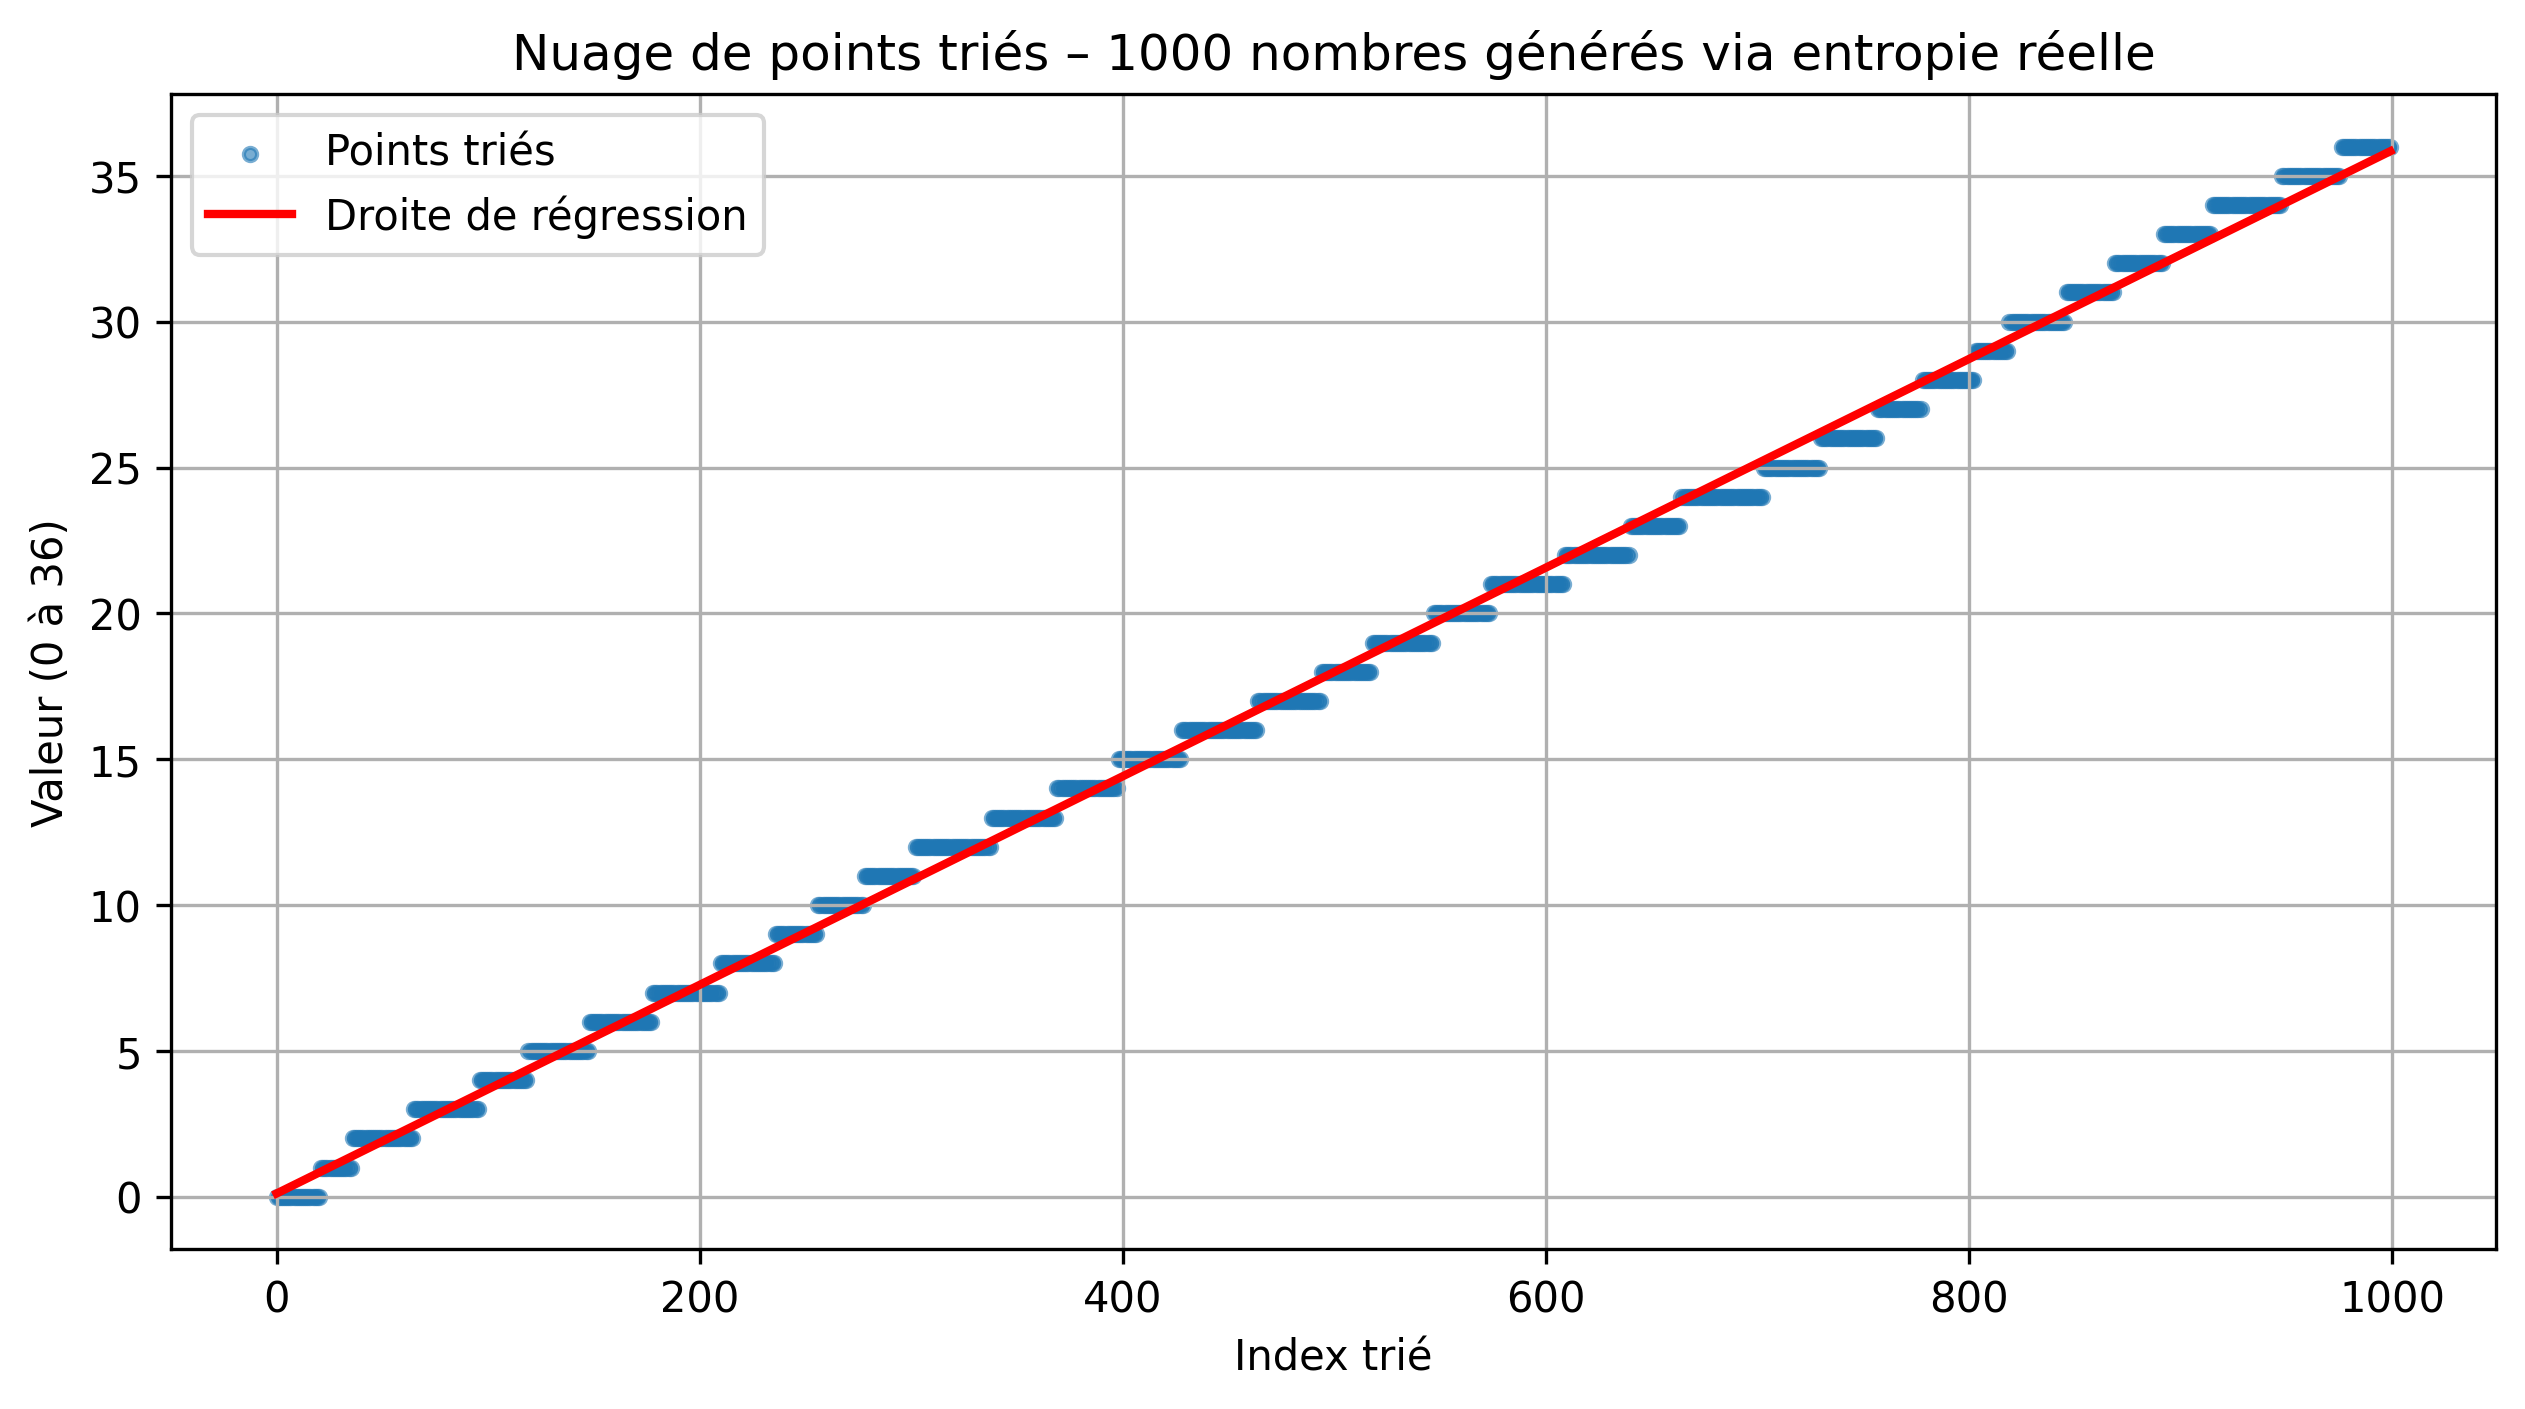
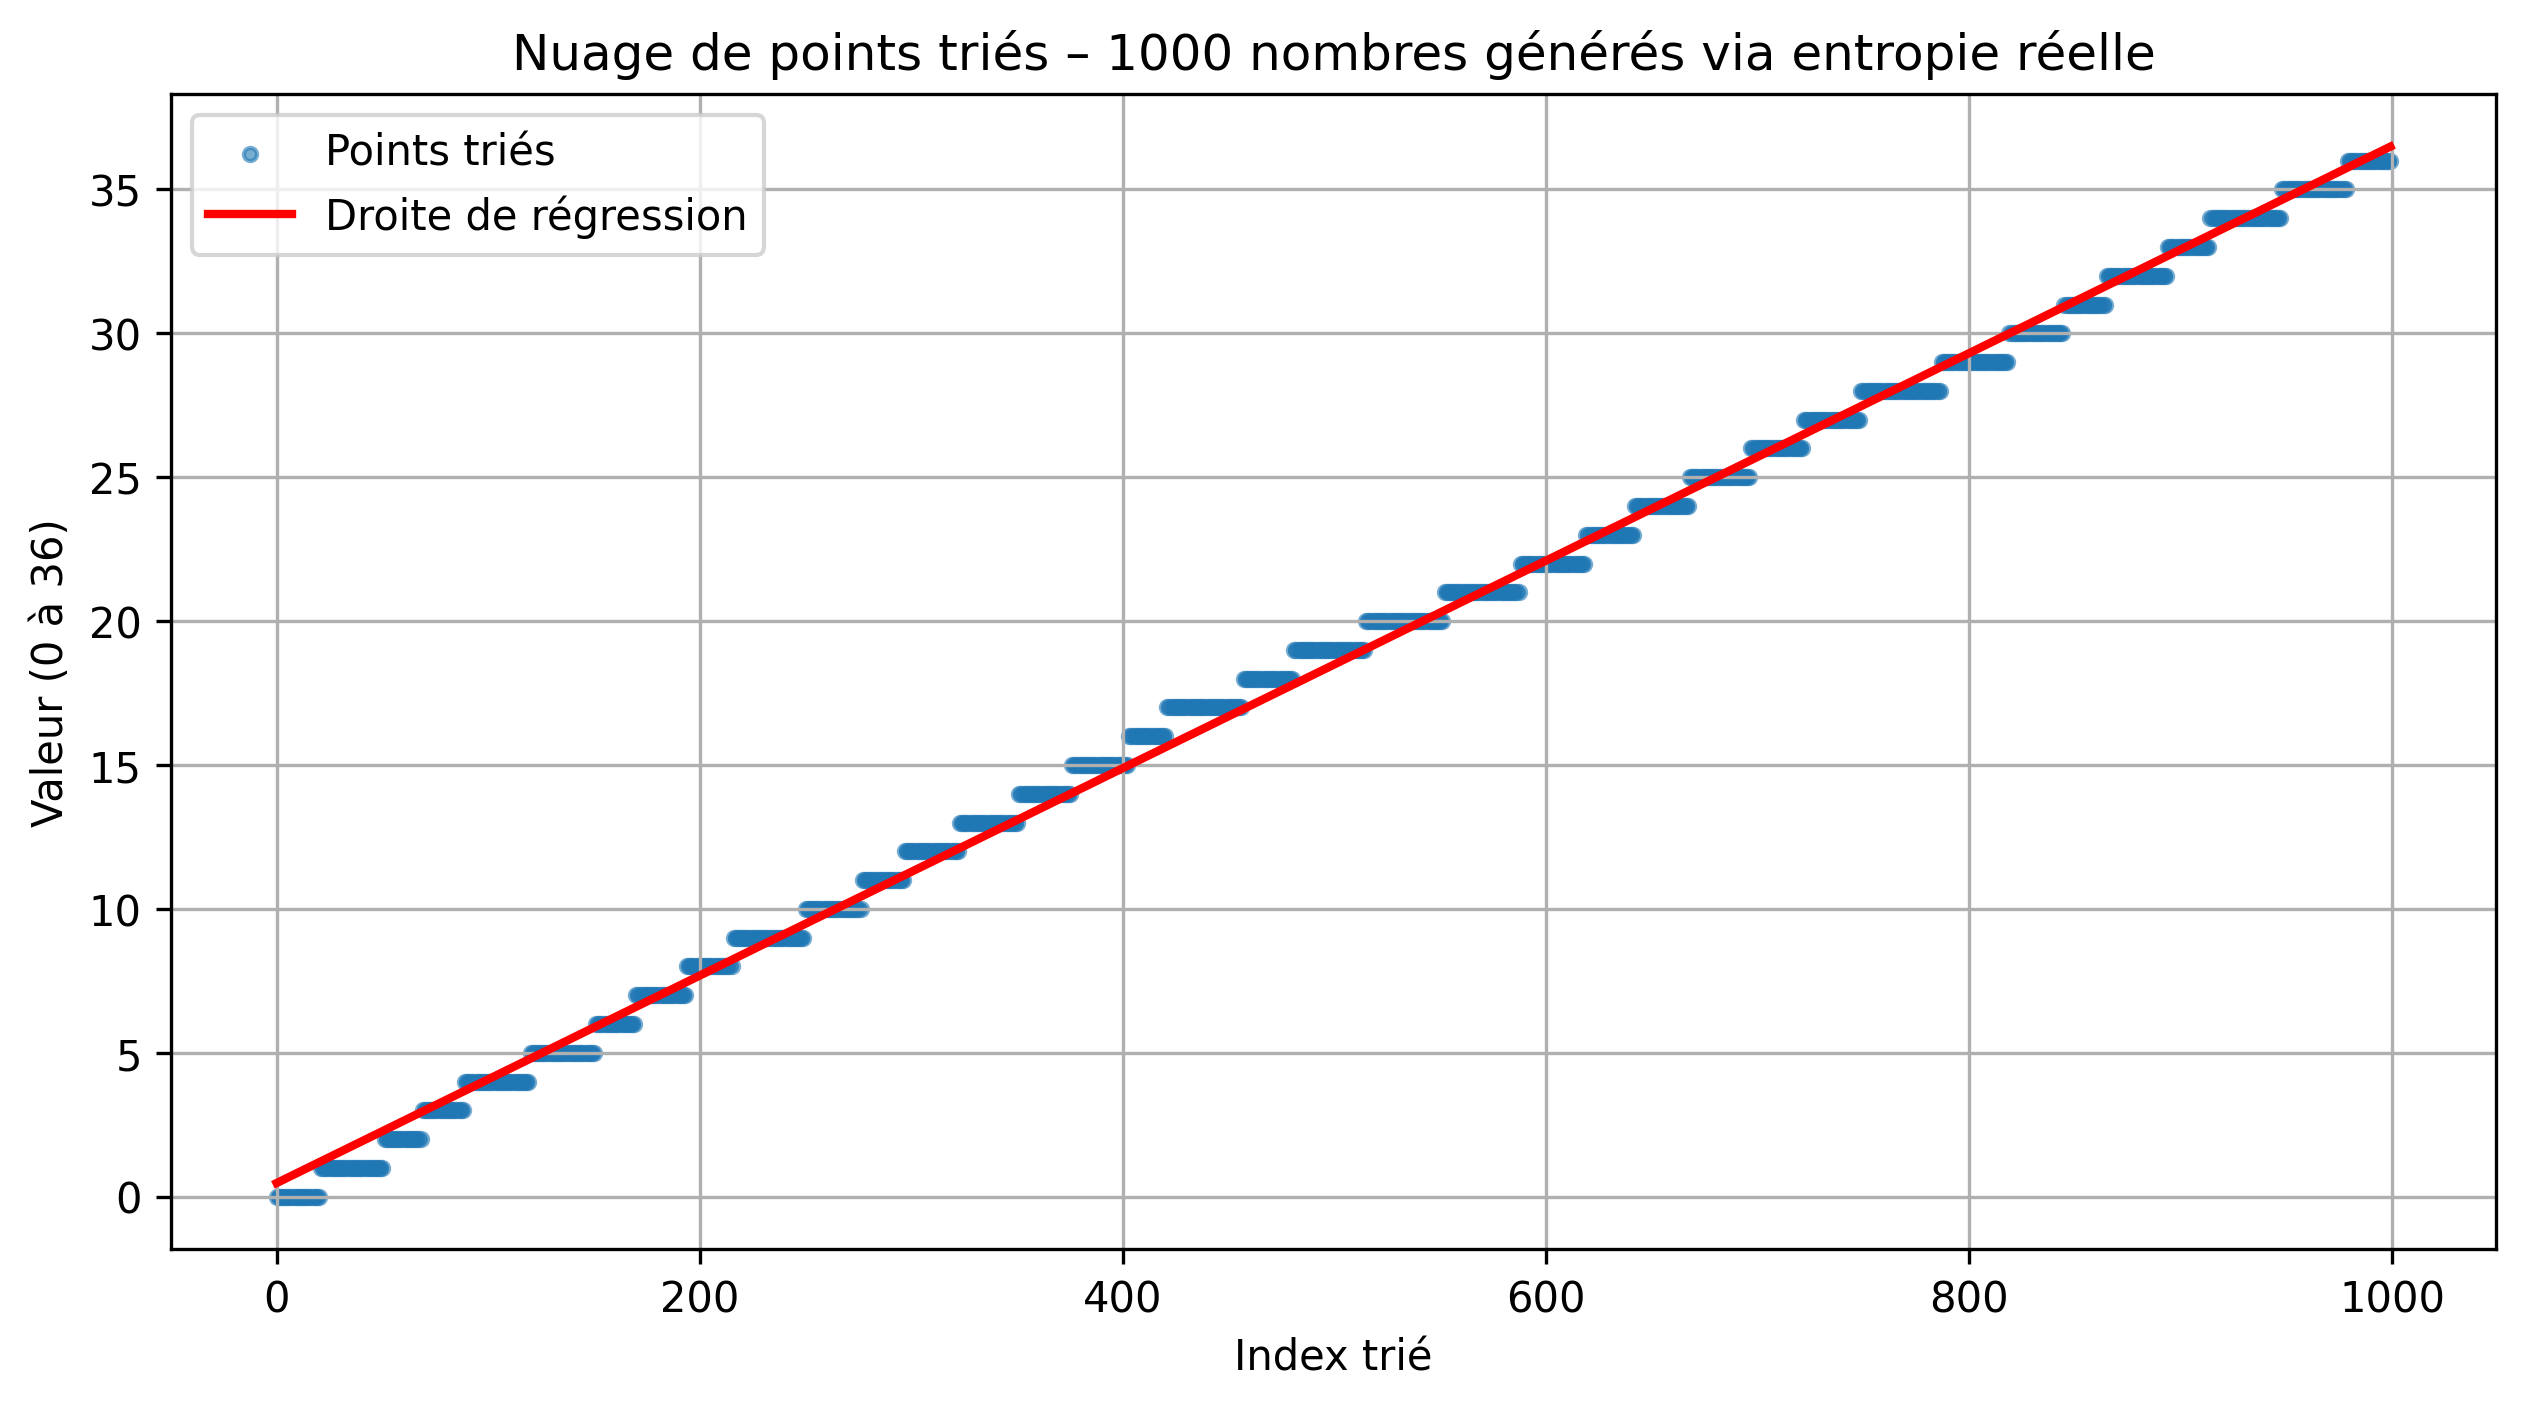
code upgrade for all last data and graph

Changed region(s): [[0.0309, 0.0937, 0.9885, 0.8432], [0.0309, 0.406, 0.0618, 0.4684], [0.0309, 0.1249, 0.0618, 0.1561]]

diff --git a/graphique.py b/graphique.py
@@ -21,16 +21,13 @@ def nuage_points_tries_from_values(values):
     if DEBUG:
         print(f"graphique.py -> func nuage_points_tries_from_values -> {len(values)} valeurs reçues")
 
-    # Trier les valeurs par ordre croissant
     valeurs_triees = sorted(values)
     x = list(range(len(valeurs_triees)))
     
     plt.figure(figsize=(10, 5))
     plt.scatter(x, valeurs_triees, s=10, alpha=0.6, label="Points triés")
     
-    # Tracer une droite au milieu (régression linéaire)
     if len(x) > 1:
-        # Calculer la droite de régression: y = ax + b
         x_mean = sum(x) / len(x)
         y_mean = sum(valeurs_triees) / len(valeurs_triees)
         
@@ -40,7 +37,6 @@ def nuage_points_tries_from_values(values):
         a = numerator / denominator
         b = y_mean - a * x_mean
         
-        # Points de la droite
         y_regression = [a * xi + b for xi in x]
         plt.plot(x, y_regression, 'r-', linewidth=2, label="Droite de régression")
     
@@ -51,4 +47,33 @@ def nuage_points_tries_from_values(values):
     plt.grid(True)
 
     plt.savefig(OUTPUT["nuage_points_graph_trie"], dpi=300, bbox_inches="tight")
+    plt.close()
+
+def frequence_sortie_from_values(values):
+    if DEBUG:
+        print(f"graphique.py -> func frequence_sortie_from_values -> {len(values)} valeurs reçues")
+    
+    frequences = {}
+    for val in values:
+        frequences[val] = frequences.get(val, 0) + 1
+    
+    numeros = sorted(frequences.keys())
+    counts = [frequences[num] for num in numeros]
+    
+    freq_theorique = len(values) / 37 if len(values) > 0 else 0
+    
+    plt.figure(figsize=(14, 6))
+    bars = plt.bar(numeros, counts, color='steelblue', edgecolor='black', alpha=0.7)
+
+    plt.axhline(y=freq_theorique, color='red', linestyle='--', linewidth=2, 
+                label=f'Fréquence théorique ({freq_theorique:.1f})')
+    
+    plt.xlabel("Numéro (0 à 36)")
+    plt.ylabel("Fréquence d'apparition")
+    plt.title(f"Fréquence de sortie des numéros – {len(values)} tirages")
+    plt.xticks(numeros)
+    plt.legend()
+    plt.grid(True, axis='y', alpha=0.3)
+    
+    plt.savefig(OUTPUT['frequencie_graph'], dpi=300, bbox_inches="tight")
     plt.close()

diff --git a/main.py b/main.py
@@ -1,11 +1,11 @@
 from utils.file_and_folder import init_File_And_Folder, remove_Temp_File
 from config import TEMP_OUTPUT, OUTPUT, REMOVETEMPFILE
 from entropy import generate_single_number
-from graphique import nuage_points_from_values, nuage_points_tries_from_values
+from graphique import nuage_points_from_values, nuage_points_tries_from_values, frequence_sortie_from_values
 from roulette import create_roulette
 import random
 
-NOMBRE_GENERATIONS = 1
+NOMBRE_GENERATIONS = 1000
 
 init_File_And_Folder(TEMP_OUTPUT, OUTPUT)
 
@@ -31,19 +31,18 @@ print(f"Derniers 10 nombres: {generated_numbers[-10:]}")
 print(f"Min: {min(generated_numbers)}, Max: {max(generated_numbers)}")
 print(f"{'='*60}")
 
-create_roulette(generated_hex[0])
+create_roulette(generated_hex[len(generated_hex)-1])
 
-seed = int(generated_hex[0], 16)
-random.seed(seed)
-values = [random.randint(0, 36) for _ in range(1000)]
 print(f"\nGénération du nuage de points...")
-nuage_points_from_values(values)
-nuage_points_tries_from_values(values)
+nuage_points_from_values(generated_numbers)
+nuage_points_tries_from_values(generated_numbers)
+frequence_sortie_from_values(generated_numbers)
 print(f"\n{'='*60}")
 print(f"NUAGE DE {NOMBRE_GENERATIONS} POINTS GÉNÉRÉE")
 print(f"{'='*60}")
 print(f"Nuage de points sauvegardé dans: {OUTPUT['nuage_points_graph']}\n")
 print(f"Nuage de points trié sauvegardé dans: {OUTPUT['nuage_points_graph_trie']}\n")
+print(f"bar sauvegardé dans: {OUTPUT['frequencie_graph']}\n")
 
 if REMOVETEMPFILE:
     remove_Temp_File(TEMP_OUTPUT)

diff --git a/config.py b/config.py
@@ -13,7 +13,8 @@ OUTPUT = {
     "Meteo_Data_JSON": "output/Meteo_data.json",
     "Key_File": "output/generated_key.txt",
     "nuage_points_graph": "output/nuage_points_roulette.png",
-    "nuage_points_graph_trie": "output/nuage_points_graph_trie.png"
+    "nuage_points_graph_trie": "output/nuage_points_graph_trie.png",
+    "frequencie_graph": "output/frequencie_graph.png"
 }
 REMOVETEMPFILE = True
 DEBUG = True
